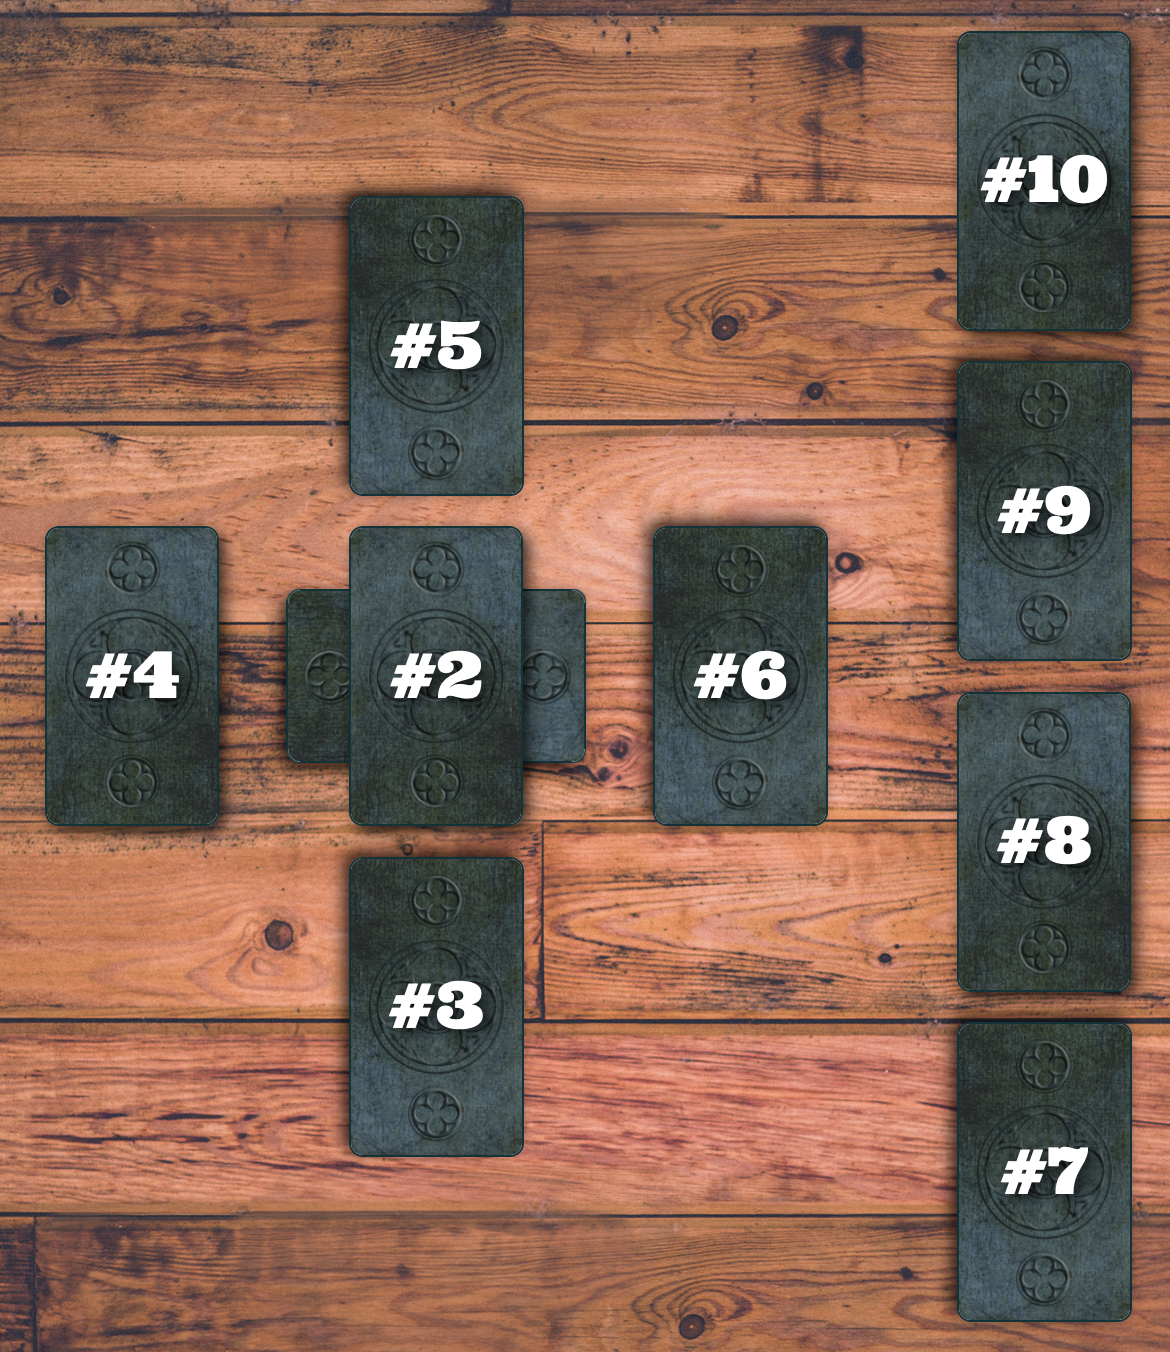
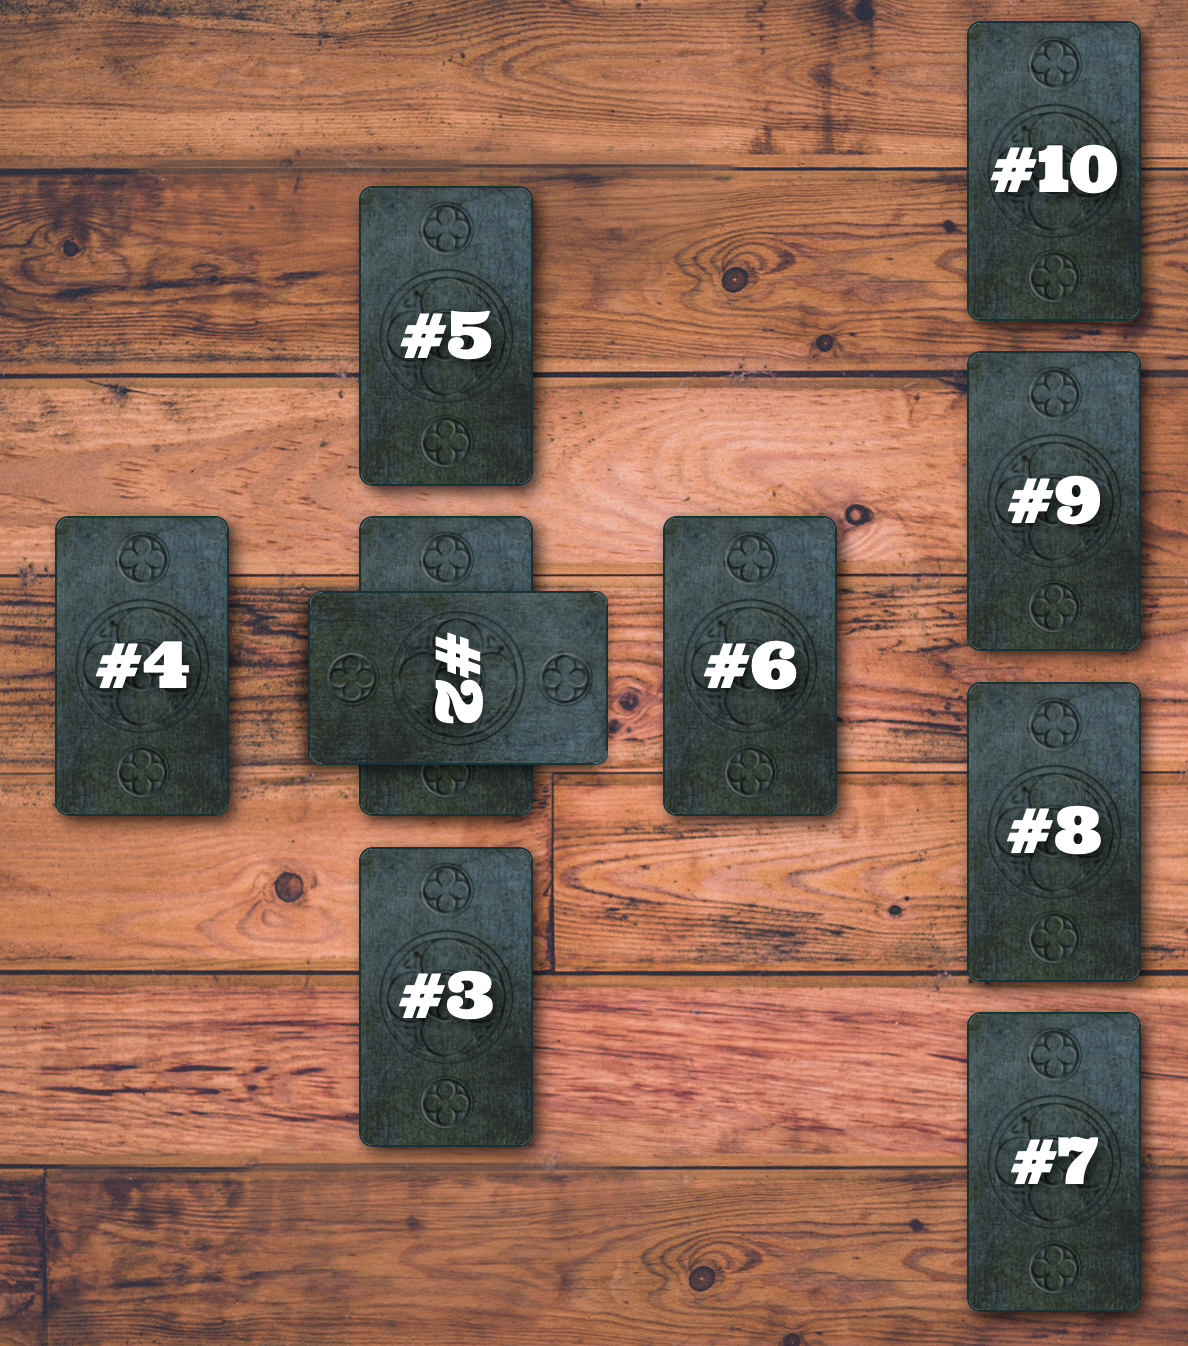
Update images for crossed tarot cards

diff --git a/_site/2023/01/03/css-grid-for-tarot.html b/_site/2023/01/03/css-grid-for-tarot.html
@@ -83,7 +83,7 @@
     </tr>
     <tr>
       <td><span class="table-caption">This 4-card spread had individually hand-coded, curated, artisenal positioning HTML</span></td>
-      <td><span class="table-caption"> This 8-card spread just spits any number of cards out into generic non-customized columns and rows.</span></td>
+      <td><span class="table-caption"> This 8-card spread just spits out the right number of cards out into generic non-customized columns and rows.</span></td>
     </tr>
   </tbody>
 </table>
@@ -103,7 +103,7 @@ I was fine with that sacrifice at the time, but as time passed and folks familia
 </ol>
 
 <h2 id="css-grid-for-the-win">CSS Grid for the Win</h2>
-<p>In my original implementation, I was using <a href="https://getbootstrap.com/">Twitter Bootstrap</a>’s column &amp; row system – which was limited in its capability. And now I know that there is some hot CSS technology that lets you put <code class="language-plaintext highlighter-rouge">&lt;div&gt;</code>s exactly where you want them on a screen. We’re talking about <code class="language-plaintext highlighter-rouge">display: grid;</code> and it’s been supported by all browsers since 2017. As I spend most of my time in the back end of Rails apps (which you probably wouldn’t guess by the front-end nature of my posts), I needed a refresher before digging into <code class="language-plaintext highlighter-rouge">grid</code>. I watched (and highly recommend) Brad Traversy’s <a href="https://www.youtube.com/watch?v=jV8B24rSN5o&amp;ab_channel=TraversyMedias">CSS Grid Layout Crash Course</a>. You’ll see in that video that there are different ways to use grid.
+<p>In my original implementation, I was using <a href="https://getbootstrap.com/">Twitter Bootstrap</a>’s column &amp; row system – which was limited in its capability. And now I know that there is some hot CSS technology that lets you put <code class="language-plaintext highlighter-rouge">&lt;div&gt;</code>s exactly where you want them on a screen. We’re talking about <code class="language-plaintext highlighter-rouge">display: grid;</code> and it’s been supported by all browsers since 2017. As I spend most of my time in the back end of Rails apps (which you probably wouldn’t guess by the front-end nature of my posts), I needed a refresher before digging into <code class="language-plaintext highlighter-rouge">grid</code>. I watched (and highly recommend) Brad Traversy’s <a href="https://www.youtube.com/watch?v=jV8B24rSN5o&amp;ab_channel=TraversyMedias">CSS Grid Layout Crash Course</a>. You’ll see in that video that there are different ways to use grid. I’m choosing to assign exact grid cell locations to my DOM objects, which I’ll explain below.
 <!-- <iframe width="420" height="315" src="https://www.youtube.com/embed/jV8B24rSN5o"></iframe> --></p>
 
 <p>This is the spread I’ll use to demonstrate how I used grid to lay out my cards:</p>
@@ -137,7 +137,7 @@ I was fine with that sacrifice at the time, but as time passed and folks familia
 <span class="nt">&lt;/div&gt;</span>
 </code></pre></div></div>
 
-<p>Repeat this process for each of the 4 cards. Once I have proof-of-concept, I can move on to making it dynamic.</p>
+<p>Repeat this process for each of the 4 cards. Now this this working proof-of-concept, I can move on to making it dynamic.</p>
 
 <h2 id="requirement-store-the-cards-exact-positioning-information-somewhere-so-it-can-be-rendered-dynamically">Requirement: Store the card’s exact positioning information somewhere so it can be rendered dynamically</h2>
 <p>Storing knowledge about a database object in the HTML doesn’t scale, so it’s better to store it in the database along with the appropriate object. To do that, I added a <code class="language-plaintext highlighter-rouge">grid_column</code> and a <code class="language-plaintext highlighter-rouge">grid_row</code> field to the <code class="language-plaintext highlighter-rouge">reading_positions</code> table in my database in order to store each card’s position in a given reading. After the database table was updated, I manually added the data to each <code class="language-plaintext highlighter-rouge">reading_position</code> (aka card in the spread). The data for our example cards in this spread looks something like this:</p>
@@ -301,7 +301,7 @@ Card 7:
 <p>And then I built out the corresponding CSS classes to match.</p>
 
 <h3 id="bonus-requirement-cross-a-card-rotate-90-degrees-over-another-card">Bonus Requirement: Cross a card (rotate 90 degrees) over another card</h3>
-<p>Okay, now in this spread, notice how card #1 is crossing behind card #2?
+<p>Okay, now in this spread, notice how card #2 is crossing over card #1?
 <img src="/img/posts/2023-01-03_tarot_crossed_cards.png" alt="example of crossed cards" title="example of crossed cards" /></p>
 
 <p>The first part is easy. When entering the positioning data, I simply assigned cards #1 and #2 to the same place in the grid.</p>
@@ -313,7 +313,7 @@ Card 2:
   grid_column: 2, grid_row: 1
 </code></pre></div></div>
 
-<p>Voila. But then I needed to add another column to my <code class="language-plaintext highlighter-rouge">reading_positions</code> table to indicate if a card in this position should be crossed. I tossed a boolean called <code class="language-plaintext highlighter-rouge">crossed</code> in there and was good to go. As for the styling, I wrote a class that rotated the card and rendered that class in the HTML if the <code class="language-plaintext highlighter-rouge">card.crossed?</code> was true.</p>
+<p>Voila. But then I needed to add another column to my <code class="language-plaintext highlighter-rouge">reading_positions</code> table to indicate if a card in this position should be crossed. I tossed a boolean called <code class="language-plaintext highlighter-rouge">crossed</code> in there and was good to go. As for the styling, I wrote a class that rotated the card and rendered that class in the HTML if the <code class="language-plaintext highlighter-rouge">reading_position.crossed?</code> was true.</p>
 
 <div class="language-css highlighter-rouge"><div class="highlight"><pre class="highlight"><code><span class="nc">.crossed</span> <span class="p">{</span>
   <span class="nl">-ms-transform</span><span class="p">:</span> <span class="n">rotate</span><span class="p">(</span><span class="m">90deg</span><span class="p">);</span> <span class="err">//</span> <span class="err">IE</span> <span class="err">9</span>
@@ -322,7 +322,7 @@ Card 2:
 <span class="p">}</span>
 </code></pre></div></div>
 
-<p>Putting it all together, we now have the classic Celtic Cross spread!</p>
+<p>Now that we have ovelapping cards (with those half columns and half rows) and crossed cards (rotated 90 degrees), we can render the classic Celtic Cross spread!</p>
 
 <p><img src="/img/posts/2023-01-03_tarot_celtic_cross.png" alt="celtic cross tarot spread" title="celtic cross tarot spread" /></p>
 
@@ -348,9 +348,9 @@ Card 2:
 </table>
 
 <p><br />
-This refactor was satisfying because it solved a problem that I had stopped thinking about solutions for a long time ago. It took some creating problem solving to figure it out and the results are so pretty! I’m glad to have gotten the inspiration I needed to finally endeavor on this long-overdue refactor.</p>
+This refactor was satisfying because it solved a problem that I had stopped thinking about solutions for a long time ago. It took some creative problem solving to figure it out and the results are so pretty! I’m glad to have gotten the inspiration I needed to finally endeavor on this long-overdue refactor.</p>
 
-<p>Of course, my next feature set is already in my mind: when I use the admin interface to create a new reading spread and fill in the grid size and card locations, I have to picture a grid in my mind (complete with half rows and half columns 😱) or use a whiteboard to figure it out. I would love to be able to click on a square in a grid on the form page or drag and drop a card to a grid location. Right now, that’s outside of the limits of my desire to do this work 😂 and I don’t see myself building a whole lot more spreads right now, so we’ll see how many more years it takes for me to get around to implementing that admin feature.</p>
+<p>Of course, the next set of feature I want is already in my mind: when I use the admin interface to create a new reading spread and fill in the grid size and card locations, I have to picture a grid in my mind (complete with half rows and half columns 😱) or use a whiteboard to figure it out. I would love to be able to click on a square in a grid on the form page or drag and drop a card to a grid location. Right now, that’s outside of the limits of my desire to do this work 😂 and I don’t see myself building a whole lot more spreads right now, so we’ll see how many more years it takes for me to get around to implementing that admin feature.</p>
 
   </article>
 

diff --git a/_posts/2023-01-03-css-grid-for-tarot.md b/_posts/2023-01-03-css-grid-for-tarot.md
@@ -10,7 +10,7 @@ Back in 2018 I [wrote this post]({% post_url 2018-05-20-favorite-refactor-tarot-
 | Before Scaling | After Scaling |
 |---|---|
 | <img class="post-image-small" src="{{ site.baseurl }}/img/posts/2023-01-03_tarot_grid_simple.png" alt="simple tarot spread" title="simple tarot spread"/> | <img class="post-image-small" src="{{ site.baseurl }}/img/posts/2023-01-03_tarot_bigger_picture_before.png" alt="tarot cards in a row" title="tarot cards in a row"/> |
-| <span class='table-caption'>This 4-card spread had individually hand-coded, curated, artisenal positioning HTML</span> | <span class='table-caption'> This 8-card spread just spits any number of cards out into generic non-customized columns and rows.</span> |
+| <span class='table-caption'>This 4-card spread had individually hand-coded, curated, artisenal positioning HTML</span> | <span class='table-caption'> This 8-card spread just spits out the right number of cards out into generic non-customized columns and rows.</span> |
 
 <br>
 <br>
@@ -25,7 +25,7 @@ I started the process by outlining my requirements for making realistic-looking 
 1. BONUS: Overlap certain cards' rows or columns so that the layout actually looks like a real tarot spread
 
 ## CSS Grid for the Win
-In my original implementation, I was using [Twitter Bootstrap](https://getbootstrap.com/)'s column & row system -- which was limited in its capability. And now I know that there is some hot CSS technology that lets you put `<div>`s exactly where you want them on a screen. We're talking about `display: grid;` and it's been supported by all browsers since 2017. As I spend most of my time in the back end of Rails apps (which you probably wouldn't guess by the front-end nature of my posts), I needed a refresher before digging into `grid`. I watched (and highly recommend) Brad Traversy's [CSS Grid Layout Crash Course](https://www.youtube.com/watch?v=jV8B24rSN5o&ab_channel=TraversyMedias). You’ll see in that video that there are different ways to use grid.
+In my original implementation, I was using [Twitter Bootstrap](https://getbootstrap.com/)'s column & row system -- which was limited in its capability. And now I know that there is some hot CSS technology that lets you put `<div>`s exactly where you want them on a screen. We're talking about `display: grid;` and it's been supported by all browsers since 2017. As I spend most of my time in the back end of Rails apps (which you probably wouldn't guess by the front-end nature of my posts), I needed a refresher before digging into `grid`. I watched (and highly recommend) Brad Traversy's [CSS Grid Layout Crash Course](https://www.youtube.com/watch?v=jV8B24rSN5o&ab_channel=TraversyMedias). You’ll see in that video that there are different ways to use grid. I'm choosing to assign exact grid cell locations to my DOM objects, which I'll explain below.
 <!-- <iframe width="420" height="315" src="https://www.youtube.com/embed/jV8B24rSN5o"></iframe> -->
 
 This is the spread I'll use to demonstrate how I used grid to lay out my cards:
@@ -62,7 +62,7 @@ Here's how it plays out in the HTML:
 </div>
 ```
 
-Repeat this process for each of the 4 cards. Once I have proof-of-concept, I can move on to making it dynamic.
+Repeat this process for each of the 4 cards. Now this this working proof-of-concept, I can move on to making it dynamic.
 
 ## Requirement: Store the card's exact positioning information somewhere so it can be rendered dynamically
 Storing knowledge about a database object in the HTML doesn't scale, so it's better to store it in the database along with the appropriate object. To do that, I added a `grid_column` and a `grid_row` field to the `reading_positions` table in my database in order to store each card's position in a given reading. After the database table was updated, I manually added the data to each `reading_position` (aka card in the spread). The data for our example cards in this spread looks something like this:
@@ -236,7 +236,7 @@ Card 7:
 And then I built out the corresponding CSS classes to match.
 
 ### Bonus Requirement: Cross a card (rotate 90 degrees) over another card
-Okay, now in this spread, notice how card #1 is crossing behind card #2?
+Okay, now in this spread, notice how card #2 is crossing over card #1?
 <img src="{{ site.baseurl }}/img/posts/2023-01-03_tarot_crossed_cards.png" alt="example of crossed cards" title="example of crossed cards"/>
 
 The first part is easy. When entering the positioning data, I simply assigned cards #1 and #2 to the same place in the grid.
@@ -249,7 +249,7 @@ Card 2:
   grid_column: 2, grid_row: 1
 ```
 
-Voila. But then I needed to add another column to my `reading_positions` table to indicate if a card in this position should be crossed. I tossed a boolean called `crossed` in there and was good to go. As for the styling, I wrote a class that rotated the card and rendered that class in the HTML if the `card.crossed?` was true.
+Voila. But then I needed to add another column to my `reading_positions` table to indicate if a card in this position should be crossed. I tossed a boolean called `crossed` in there and was good to go. As for the styling, I wrote a class that rotated the card and rendered that class in the HTML if the `reading_position.crossed?` was true.
 
 ```css
 .crossed {
@@ -259,7 +259,7 @@ Voila. But then I needed to add another column to my `reading_positions` table t
 }
 ```
 
-Putting it all together, we now have the classic Celtic Cross spread!
+Now that we have ovelapping cards (with those half columns and half rows) and crossed cards (rotated 90 degrees), we can render the classic Celtic Cross spread!
 
 <img src="{{ site.baseurl }}/img/posts/2023-01-03_tarot_celtic_cross.png" alt="celtic cross tarot spread" title="celtic cross tarot spread"/>
 
@@ -272,6 +272,6 @@ Putting it all together, we now have the classic Celtic Cross spread!
 | <span class="table-caption">The cards are rendered into generic non-customized columns and rows.</span> | <span class="table-caption">The cards are positioned exactly where I want them to be.</span> |
 
 <br>
-This refactor was satisfying because it solved a problem that I had stopped thinking about solutions for a long time ago. It took some creating problem solving to figure it out and the results are so pretty! I'm glad to have gotten the inspiration I needed to finally endeavor on this long-overdue refactor.
+This refactor was satisfying because it solved a problem that I had stopped thinking about solutions for a long time ago. It took some creative problem solving to figure it out and the results are so pretty! I'm glad to have gotten the inspiration I needed to finally endeavor on this long-overdue refactor.
 
-Of course, my next feature set is already in my mind: when I use the admin interface to create a new reading spread and fill in the grid size and card locations, I have to picture a grid in my mind (complete with half rows and half columns 😱) or use a whiteboard to figure it out. I would love to be able to click on a square in a grid on the form page or drag and drop a card to a grid location. Right now, that's outside of the limits of my desire to do this work 😂 and I don't see myself building a whole lot more spreads right now, so we'll see how many more years it takes for me to get around to implementing that admin feature.
+Of course, the next set of feature I want is already in my mind: when I use the admin interface to create a new reading spread and fill in the grid size and card locations, I have to picture a grid in my mind (complete with half rows and half columns 😱) or use a whiteboard to figure it out. I would love to be able to click on a square in a grid on the form page or drag and drop a card to a grid location. Right now, that's outside of the limits of my desire to do this work 😂 and I don't see myself building a whole lot more spreads right now, so we'll see how many more years it takes for me to get around to implementing that admin feature.
